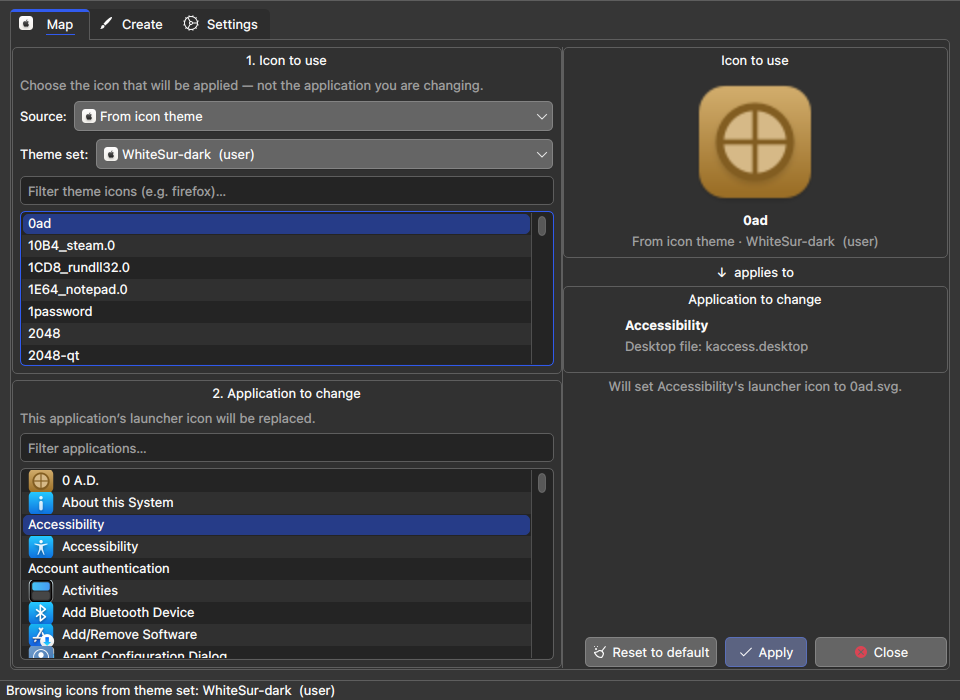
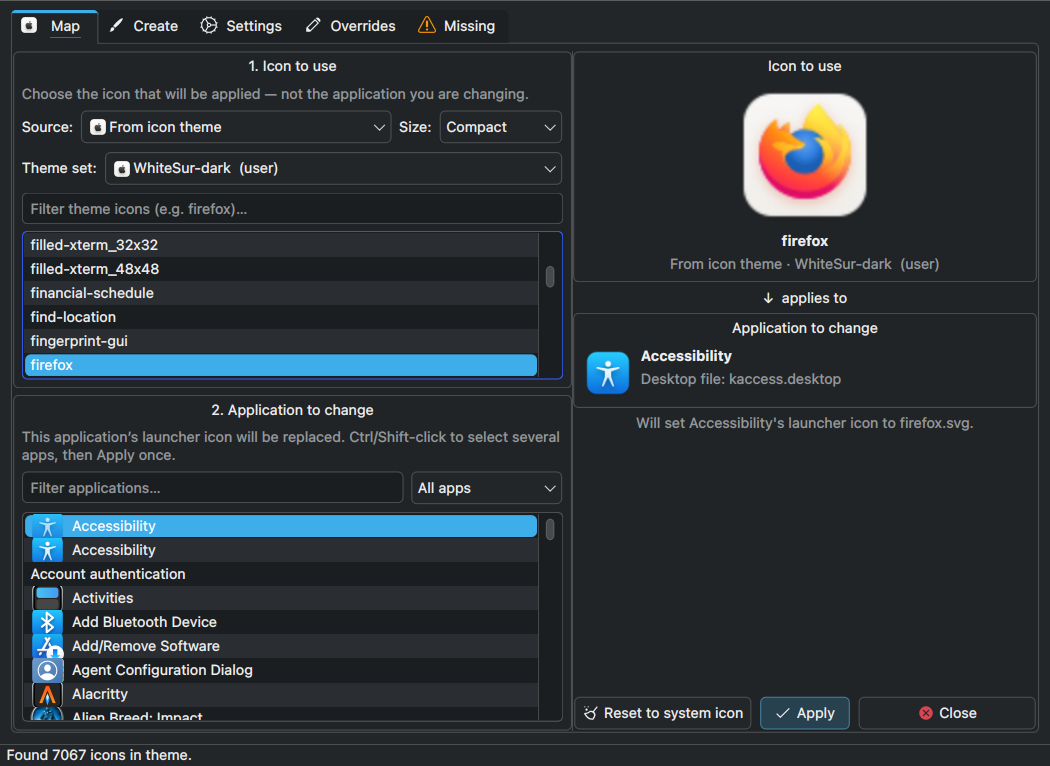
Refresh GUI screenshots for current kAppIcon UI.
Replace README/AppStream captures with latest Map, Create, Settings,
Overrides, and Missing shots, and add a batch multi-select screenshot.

diff --git a/README.md b/README.md
@@ -63,6 +63,12 @@ Browse packs such as **WhiteSur**, **Tela**, **Breeze**, or any theme under `~/.
 
 ![Map from icon theme](screenshots/gui-map-icon-theme.png)
 
+### Map — batch multi-select
+
+Ctrl/Shift-select several apps, then **Apply to N apps** in one go. The window stays open so you can rice many launchers in one sitting.
+
+![Map batch apply](screenshots/gui-map-batch.png)
+
 ### Create — pixel editor, import with pan/zoom, library
 
 Draw or import, **Undo** / **Redo** on the canvas, then save a standard 512×512 icon to your library (or **Save and use in Map**).
